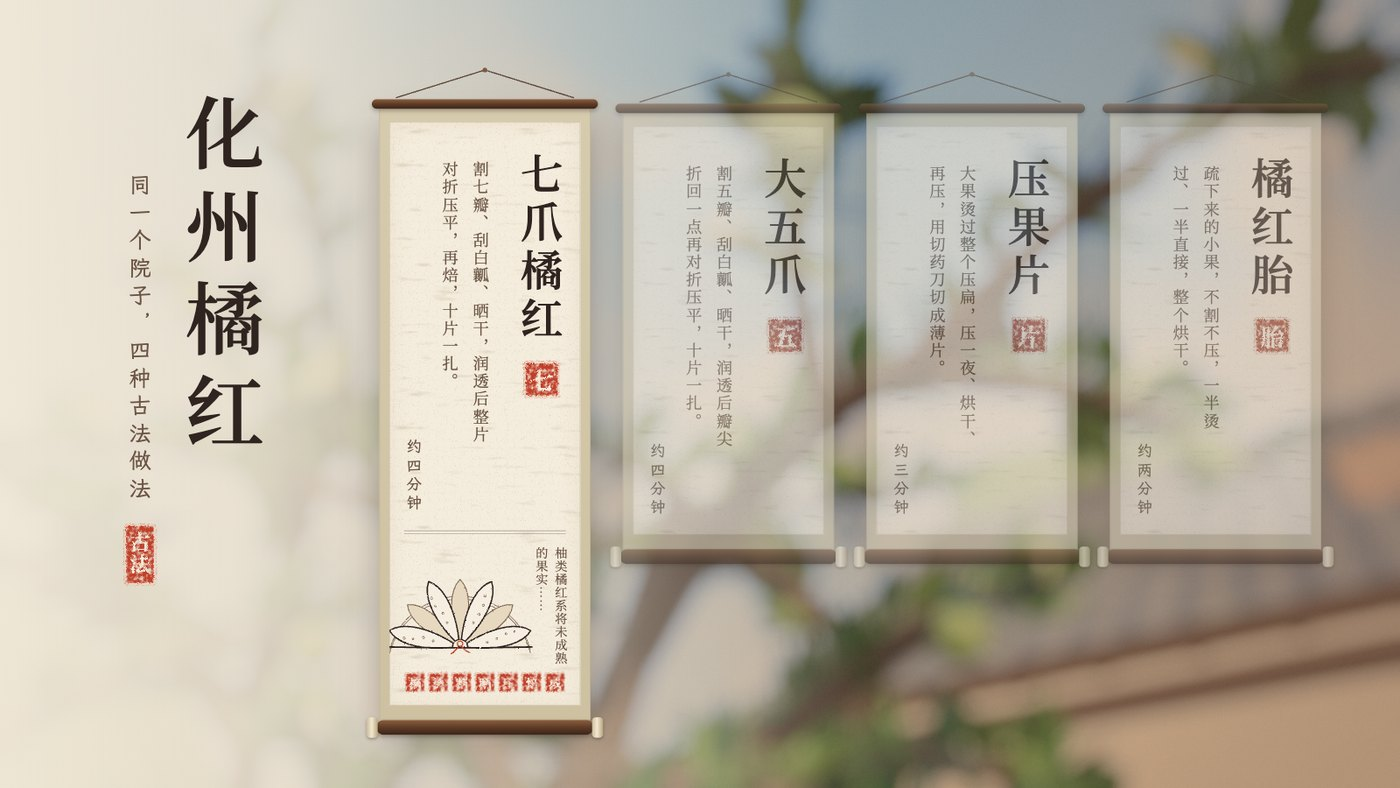
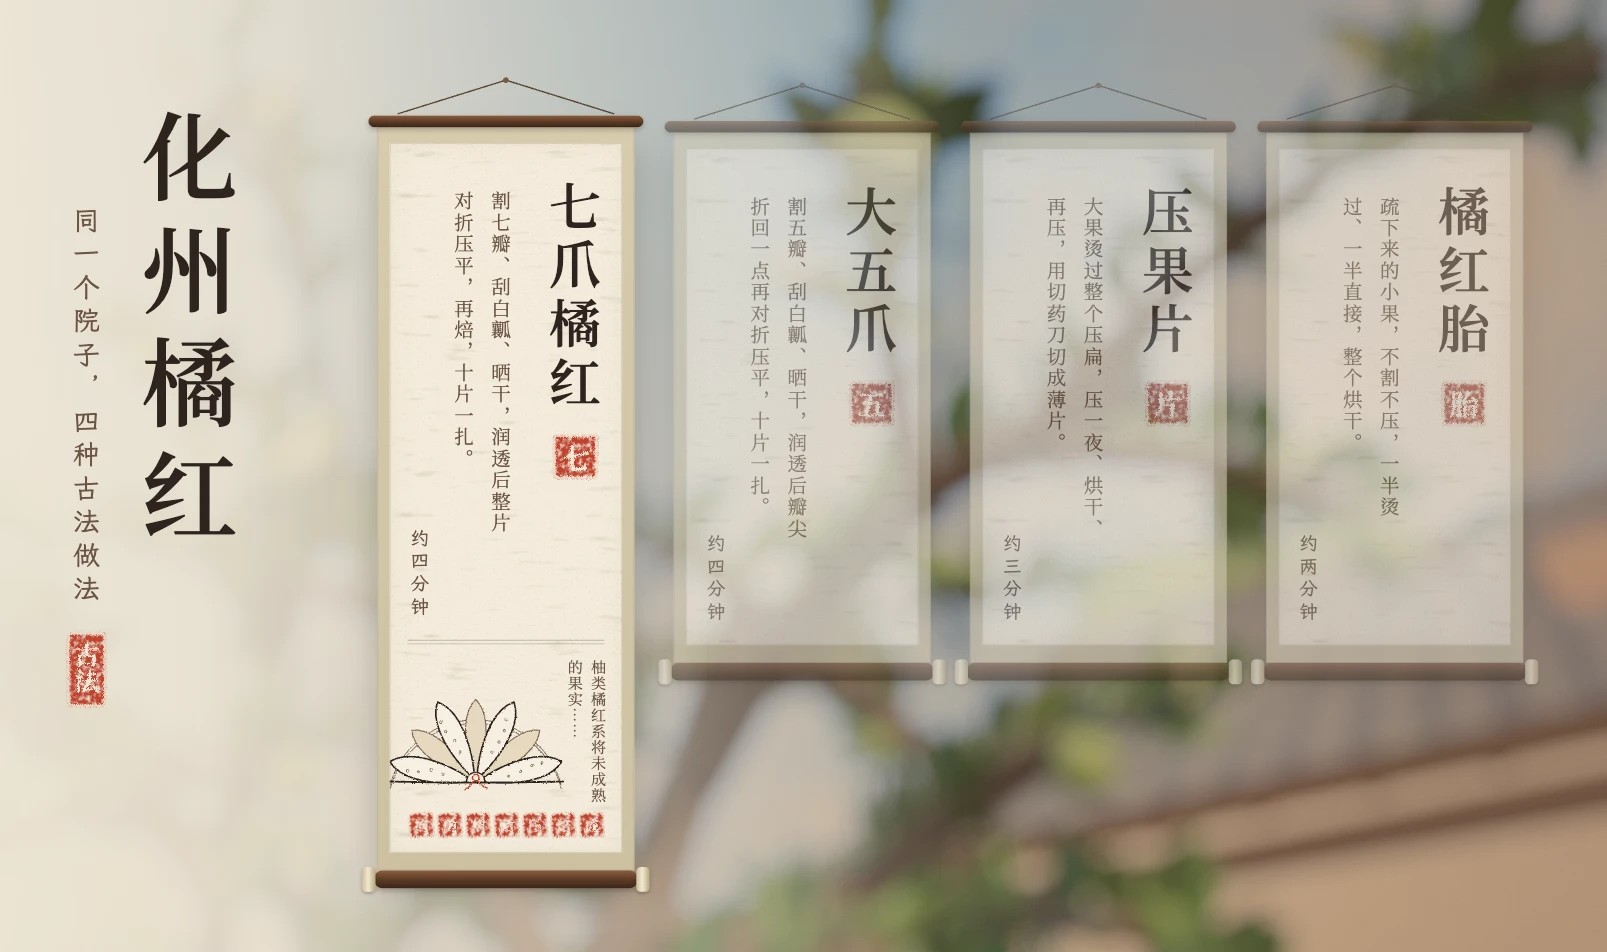
文档：README 整篇重写，主图换成入口页四条屏

diff --git a/README.md b/README.md
@@ -1,41 +1,55 @@
 # 化橘红 · 古法加工
 
-**四种传统做法的三维演示**　·　七爪、大五爪、压果片、橘红胎
+**四种传统做法的三维演示**　·　七爪　大五爪　压果片　橘红胎
 
 > 柚类橘红系将未成熟的果实，先投入沸水中，即捞出，将果皮割成五至七瓣，出去果瓤及内面部分白色的中果皮后晒干或焙干，再以水润透，对折以木板压平，再焙干即得。
 >
 > ——《中国药典》1963 年版一部「橘红」条
 
-五六月，化州的湿热起来了。柚子还只有拳头大，皮上覆着一层灰白的细绒，摸上去是哑的——这就是橘红。不是橘子，也不是橘子皮，是化州柚未成熟的幼果外面那层果皮。
+![入口：四幅挂轴，停在哪一幅上，它就垂下来一截](shots/00-cover.jpg)
 
-出了这片地就不行。宝山的礞石土壤、罗江鉴江的小气候，换个地方种，绒毛就稀，柚皮苷就掉。旧志里写「惟署内城内者宜用」。
-
-这句药典的工艺，写下来是六个动作：烫、割、去瓤、晒或焙、润透对折压平、再焙干。写进书里是六十多年前的事，但在化州乡下，它只是阿婆手上的一套动作，一代代传下来，没有图纸，也没有文字。
-
-一百斤鲜果，最后只出四五斤干皮。
-
-![入口页：四条屏](shots/00-cover.jpg)
-
-<sub>入口是四幅挂轴。在哪一幅上停一停，它就往下垂一截，露出成品的白描、书上的头一句，和一串工序的小印；点一下，那一幅的纸铺满整屏，揭开就是院子。</sub>
+<p align="center"><a href="https://angelcomilk.github.io/huajuhong-craft-3d/">在线看</a>　·　<a href="#怎么看">在本地跑</a></p>
 
 ---
 
-## 同一颗果子，四种去处
+## 青果
 
-摘下来的果要先过一杆秤。不到 150 克的做胎，超过 230 克的才够格割瓣——分工从这里开始，各自走完剩下的路。
+五六月，化州的湿热起来了。柚子还只有拳头大，皮上覆着一层灰白的细绒，摸上去是哑的。这就是橘红——不是橘子，也不是橘子皮，是化州柚未熟的幼果外面那一层皮。
+
+出了这片地就不行。宝山的礞石土壤，罗江、鉴江一带的小气候，换个地方种，绒毛就稀，柚皮苷就掉。旧志里只说一句：「惟署内城内者宜用。」
+
+药典里那一句，拆开是六个动作：烫、割、去瓤、晒或焙、润透对折压平、再焙干。写进书里，是六十多年前的事；在化州乡下，它只是阿婆手上的一套动作，一代代传下来，没有图纸，也没有文字。
+
+一百斤鲜果，最后只出四五斤干皮。
+
+这里把那套动作，一帧一帧算了出来。
+
+---
+
+## 一颗果子，四种去处
+
+摘下来的果，先过一杆秤。不到 150 克的留着做胎，过了 230 克的，才够格割瓣——分工从秤杆上开始，各自走完剩下的路。
 
 <table>
 <tr>
-<td width="50%"><img src="shots/01-qizhua.jpg"><br><sub><b>七爪</b>　割七瓣、刮掉白瓤、晒、润透、对折压平、复焙。贡品制式。十片一扎，红头绳从根部的结出发，顺着每一瓣拉出去。</sub></td>
-<td width="50%"><img src="shots/02-wuzhua.jpg"><br><sub><b>大五爪</b>　同样的路，只割五刀。润透后先把瓣尖折回三毫米，再整片对折，成截角五瓣花。民间多用这种做法。</sub></td>
+<td width="50%"><img src="shots/01-qizhua.jpg"><br><sub><b>七爪</b>　割七瓣，刮净白瓤，晒干，润透，整片对折压平，再焙。旧时的贡品制式。十片一扎，红头绳从根上的结出发，顺着瓣缝拉出去。</sub></td>
+<td width="50%"><img src="shots/02-wuzhua.jpg"><br><sub><b>大五爪</b>　同样的路，只割五刀。润透后先把瓣尖折回三毫米，再整片对折，成一朵截角的五瓣花。民间多用这种做法。</sub></td>
 </tr>
 <tr>
-<td><img src="shots/03-yaguo.jpg"><br><sub><b>压果片</b>　不割瓣。整颗压扁，压一夜、翻面、烘干、再压，最后用切药刀切成薄片。切面上看得见外皮一圈、白瓤、压实的果肉。这是市面上最多的形态。</sub></td>
-<td><img src="shots/04-tai.jpg"><br><sub><b>橘红胎</b>　疏下来的小果，不割不压。一半烫过、一半直接烘，整颗烘干，绒毛还在。柚皮苷含量最高。</sub></td>
+<td><img src="shots/03-yaguo.jpg"><br><sub><b>压果片</b>　不割瓣。整颗压扁，压一夜，半夜翻一回面，烘干，再压，最后上切药刀切成薄片。切面上看得见外皮一圈、白瓤、压实的果肉。市面上最常见的，就是它。</sub></td>
+<td><img src="shots/04-tai.jpg"><br><sub><b>橘红胎</b>　疏果疏下来的小果，不割，不压。一半烫过，一半直接烘，整颗烘干，一身白绒还在。柚皮苷含量最高。</sub></td>
 </tr>
 </table>
 
-四条线共用同一个院子、同一个灶、同一口锅。前段的摘果、称果、烫果是同一份代码，只换参数；分叉从下锅之后开始。
+四条线共用一个院子、一座灶、一口锅。摘果、称果、烫果是同一段代码，只换参数；下了锅，才各走各的路。
+
+---
+
+## 四条屏
+
+进门先看见四幅挂轴，像厅堂里挂的四条屏。在哪一幅前停一停，它就往下垂一截：成品的白描一笔一笔勾出来，旁边是书上的头一句，底下一串小印依次盖过去，是这条线要走的工序。院子里的光也跟着偏——七爪是清早，大五爪是上午，压果片到了傍晚，橘红胎是一院斜阳。
+
+点一下，那一幅的纸面铺满整屏。纸后面，院子换成这一条线的；纸一揭开，就从树下摘果开始。整个过程不换网页，地址栏照样变，浏览器的后退也认得回来的路。
 
 ---
 
@@ -43,34 +57,40 @@
 
 <table>
 <tr>
-<td width="50%"><img src="shots/05-book.jpg"><br><sub><b>书页</b>　做到哪一步，就描到哪一句；刚写上的那句，旁边圈一串朱圈。</sub></td>
+<td width="50%"><img src="shots/05-book.jpg"><br><sub><b>书页</b>　做到哪一步，就描到哪一句；刚写上的那句，字旁圈一串朱圈。</sub></td>
 <td width="50%"><img src="shots/06-card.jpg"><br><sub><b>题签</b>　每章开头挂出一张：其一、其二……章名落墨，一笔飞白，盖印。</sub></td>
 </tr>
 </table>
 
-片子的右边，时常翻开一页线装书。书上那句古法，起先只是一行淡淡的朱红空心字，像描红本上等人来描的底样。院子里每做完一章，那一章的句子就落了墨——一个字一个字洇开、收干。等十片扎好、一罐装满，整句也就描满了，页脚盖一方「成」。
+片子的右边，时常翻开一页线装书：四周双边，界行细细，书口贴一张朱红的书名签。书上那句古法，起先只是一行淡淡的朱红空心字，像描红本上等人来描的底样。院子里每做完一章，那一章的句子就落了墨——一个字一个字洇开、收干，写完，字旁再圈一串朱圈。
 
-药典里的一句话，原是这样一步一步做出来的。
+每章开头，还挂出一张竖题签：其一、其二……章名落墨，一笔飞白，盖一方印，"嗒"的一声。
+
+到最后一章做完，整句都描满了，页脚盖一方「成」。药典里的一句话，原是这样一步一步做出来的。
 
 ---
 
-## 这是怎么做的
+## 院子里的一切，都是算出来的
 
 不是拍视频，也不是做模型——**全部由程序生成**。
 
-院子里每一片瓦、灶膛里的每一块炭、果子表皮上的每一根绒毛，都是算出来的，没有导入任何外部 3D 模型。声音也几乎全是算的：落水、笊篱沥水、下刀、刮瓤、压板、打结、切药，还有锅里的水、灶火的噼啪、炭火的嘶声，全部由 Web Audio 实时合成。只有两段底色用了真实录音——院子里远处的鸟、灶膛里的火——都是 CC0，随仓库一起分发，出处与处理参数见 [`public/audio/CREDITS.md`](public/audio/CREDITS.md)。
+院子里每一片瓦、灶膛里每一块炭、果皮上每一根绒毛，都是算出来的，没有导入一个外部 3D 模型。声音也几乎都是算的：落水、笊篱沥水、下刀、刮瓤、压板、打结、切药，锅里的水、灶火的噼啪、炭火的嘶声，全由 Web Audio 实时合成。只有两段底色用了真实录音——院子里远处的鸟、灶膛里的火——都是 CC0，随仓库分发，出处与处理参数见 [`public/audio/CREDITS.md`](public/audio/CREDITS.md)。
 
-纸也是算的。书页的竹纸纹、印泥的毛边、白描的笔触、题签上那一笔飞白，都出自噪声滤镜和几行公式，不用一张图片素材。
+纸也是算的。竹纸的纹、印泥的毛边、白描的笔触、题签上那一笔飞白，都出自噪声滤镜和几行公式，不用一张图片素材。
 
 - **Three.js + TypeScript**，Vite 构建
-- **按段拆导演**：十三个独立小动画（`src/acts/`），每条线只写「用哪几段 + 参数 + 自己的台本」（`src/lines/`）
-- **界面跟着时间走**：题签、书页、落墨、圈点都是时间的函数，拖进度、倒回去看，字也跟着退回去
-- **换线不换网页**：纸盖着的时候把院子拆了重搭，地址栏照样变，浏览器的前进后退都认
+- **按段拆导演**：十三个独立的小段（`src/acts/`），每条线只写「用哪几段 + 参数 + 自己的台本」（`src/lines/`）
+- **一切跟着时间走**：院子、镜头、题签、书页上的落墨与圈点，都是时间的函数；拖进度、倒回去看，字也跟着退回去
+- **换线不换网页**：纸盖着的时候把院子拆了重搭，显存随拆随还
 - **按 1920×1080 排版**，整体缩放；断网可跑
 
 ---
 
-## 怎么跑
+## 怎么看
+
+线上：https://angelcomilk.github.io/huajuhong-craft-3d/
+
+在本地：
 
 ```bash
 npm install
@@ -79,22 +99,20 @@ npm run dev
 
 浏览器打开 http://127.0.0.1:5180/
 
-线上版：https://angelcomilk.github.io/huajuhong-craft-3d/
-
 | 地址 | 看什么 | 时长 |
 |---|---|---|
-| `/` | 入口页：四幅竖轴，悬停看各自的工序和成品，点了在同一页里转进去 | — |
-| `/?line=qizhua` | 七爪 | 约 3 分 45 秒 |
-| `/?line=wuzhua` | 大五爪 | 约 3 分 45 秒 |
-| `/?line=yaguo` | 压果片 | 约 3 分 20 秒 |
-| `/?line=tai` | 橘红胎 | 约 2 分钟 |
+| `/` | 入口：四条屏，任选一种 | — |
+| `/?line=qizhua` | 七爪 | 3 分 44 秒 |
+| `/?line=wuzhua` | 大五爪 | 3 分 44 秒 |
+| `/?line=yaguo` | 压果片 | 3 分 23 秒 |
+| `/?line=tai` | 橘红胎 | 2 分 03 秒 |
 
-加 `&t=秒&pause` 跳到某一刻停住，比如 `/?line=wuzhua&t=135&pause`。声音开关快捷键 <kbd>M</kbd>。
+<kbd>空格</kbd> 暂停，<kbd>←</kbd> <kbd>→</kbd> 换章，<kbd>M</kbd> 开关声音，<kbd>F</kbd> 全屏。地址后面加 `&t=秒&pause`，跳到某一刻停住，比如 `/?line=wuzhua&t=135&pause`。
 
 ```bash
-npm run build     # 类型检查 + 声音时刻检查 + 打包
+npm run build        # 类型检查 + 声音时刻检查 + 打包
 npm run check:audio  # 只跑声音时刻检查（改了段落时长或音效触发时间后）
-npm run fonts     # 字体子集化（改过文案后要重跑）
+npm run fonts        # 字体子集化（改过界面文字后要重跑）
 ```
 
 ---
@@ -104,19 +122,21 @@ npm run fonts     # 字体子集化（改过文案后要重跑）
 ```
 src/
   main.ts        入口，按 ?line 选一条线
+  app.ts         舞台、渲染循环、播放控制、同页换线
   director.ts    导演：把各段按顺序串起来
   stage.ts       这一幕的舞台状态
   camera.ts      镜头
   acts/          十三个独立小段：摘果、称果、烫果、割、晒、折、压、焙、捆、
                  压果、切片、连烘、结尾
-  lines/         四条线，各带台本与参数
+  lines/         四条线，各带台本、参数，和书页的节奏
   world/         院子世界：灶、铁锅、案台、竹匾、焙炉、柚子树、水缸、
                  杆秤、压石、切药刀、簸箕、玻璃罐…
   gfx/           渲染基础：程序化几何、着色器、后期、环境光
   audio/         实时合成的声音
-  ui/            入口页（四条屏、成品白描）、封面、章节题签、字幕、书页、结尾、控制条
+  ui/            四条屏与成品白描、封面、章节题签、字幕、书页、结尾、控制条
 public/fonts/    思源宋体、霞鹜文楷（已子集化）
-scripts/         字体子集化、逐帧截图
+public/audio/    两段 CC0 底色录音
+scripts/         字体子集化、逐帧截图、声音时刻检查
 shots/           README 里的几张图
 ```
 
